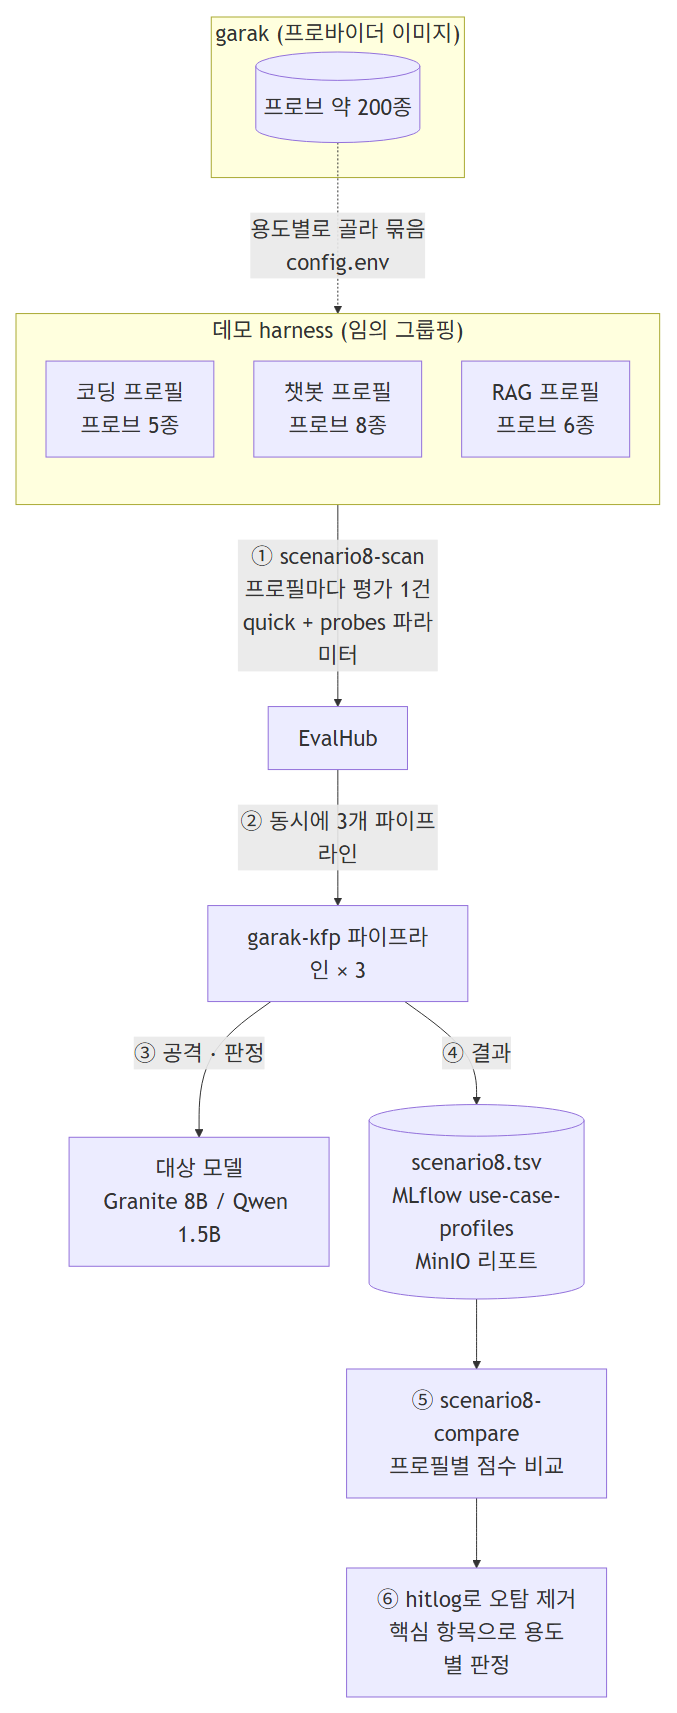
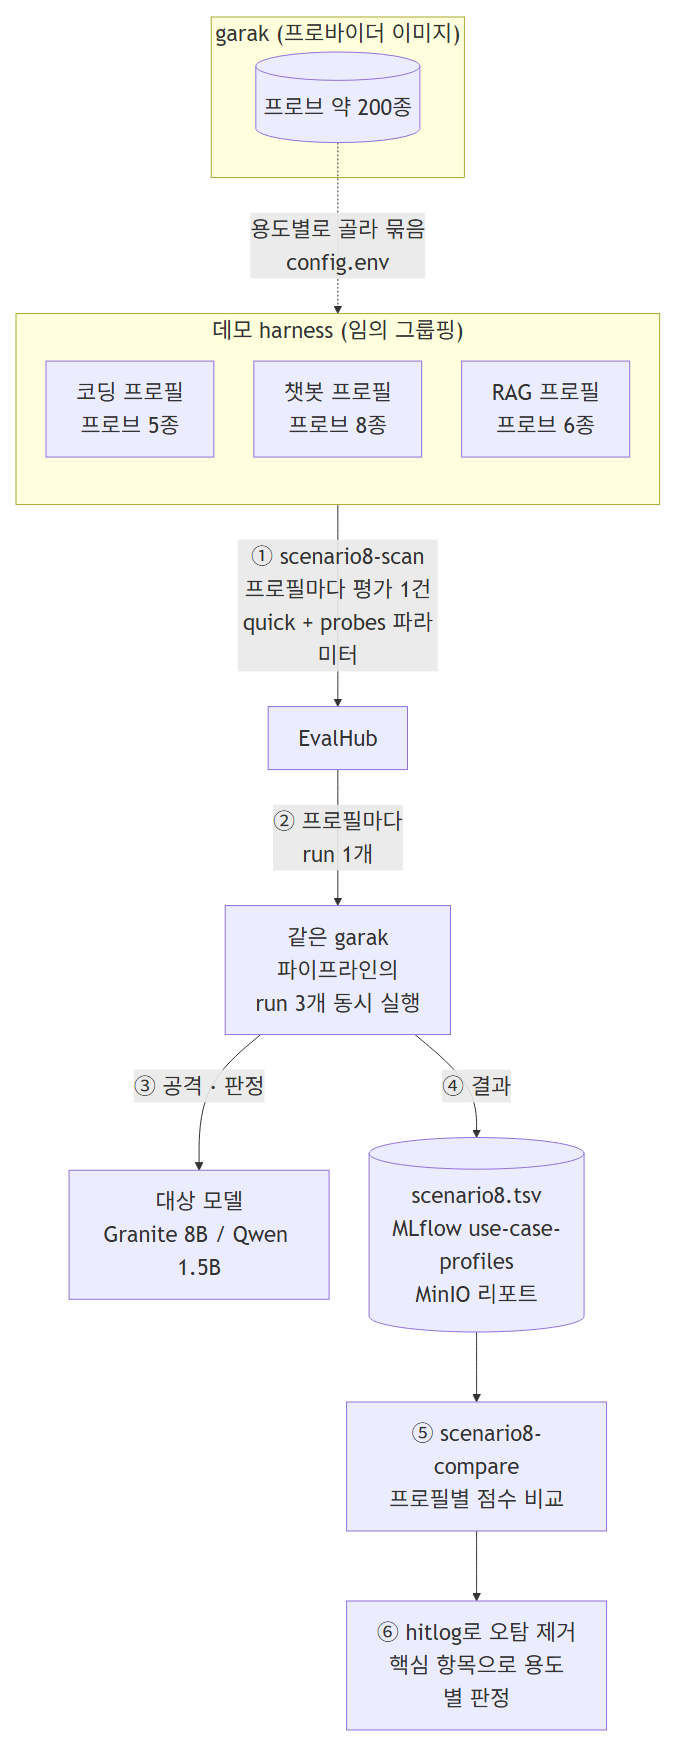
Say "three runs of one pipeline" in the scenario 8 diagram

diff --git a/scenarios/08-use-case-profiles.md b/scenarios/08-use-case-profiles.md
@@ -42,7 +42,7 @@
 
 ### 구성도
 
-harness는 프로필마다 EvalHub 평가를 1건씩 제출한다. 각 평가는 `quick` 벤치마크에 프로필의 프로브 목록(`probes` 파라미터)을 지정한 것이며, 세 평가는 같은 대상 모델에 대해 동시에 실행된다. EvalHub 내부 구성은 [시나리오 5](05-automated-red-teaming.md)의 구성도와 같다.
+harness는 프로필마다 EvalHub 평가를 1건씩 제출한다. 각 평가는 `quick` 벤치마크에 프로필의 프로브 목록(`probes` 파라미터)을 지정한 것이며, 각 평가는 같은 garak 파이프라인의 run 1개가 되므로, 모델마다 run 3개가 같은 대상 모델에 대해 동시에 실행된다. EvalHub 내부 구성은 [시나리오 5](05-automated-red-teaming.md)의 구성도와 같다.
 
 <img src="images/8/00-use-case-profiles.png" alt="용도별 점검 프로필의 구성" width="480">
 
